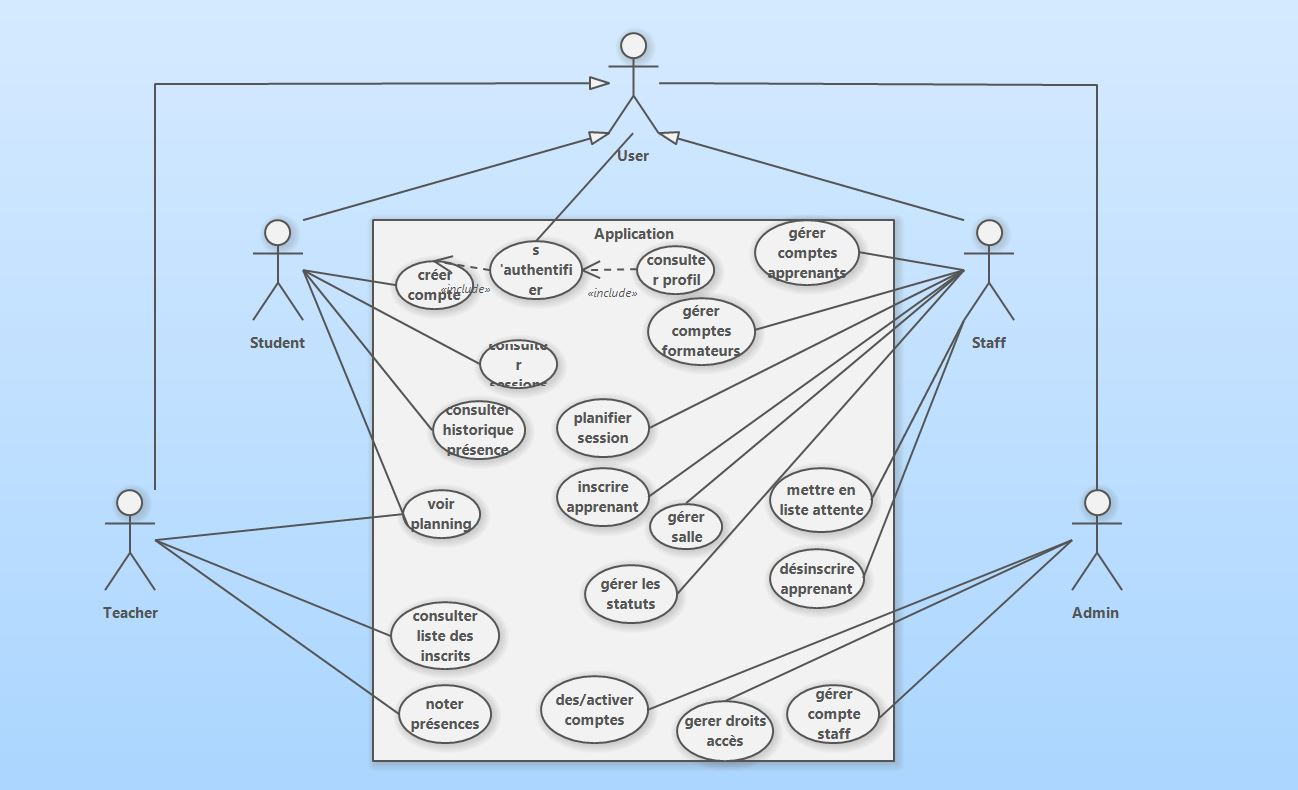
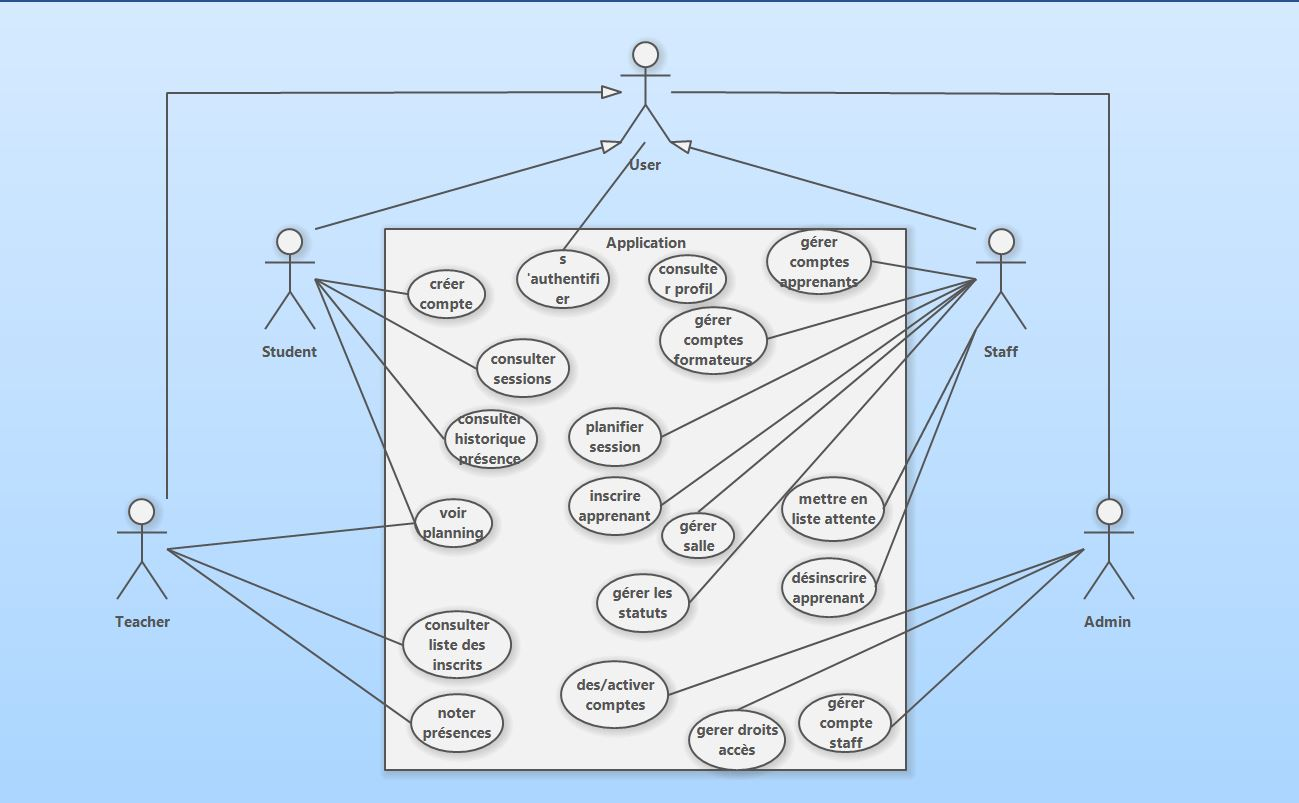
modification migrations pour le changement de str en json et mise à jour du README

Changed region(s): [[0.1233, 0.0304, 0.8937, 0.9722], [0.0616, 0.6076, 0.2465, 0.7899], [0.2157, 0.7899, 0.2465, 0.8203]]

diff --git a/migrations/versions/0002_modification_champ_classroom_equipment_.py b/migrations/versions/0002_modification_champ_classroom_equipment_.py
@@ -33,6 +33,7 @@ def downgrade() -> None:
     # ### commands auto generated by Alembic - please adjust! ###
     op.alter_column('classroom', 'equipments',
                existing_type=postgresql.JSONB(astext_type=sa.Text()),
+               postgresql_using='equipments::jsonb',
                type_=sa.TEXT(),
                existing_nullable=False)
     # ### end Alembic commands ###

diff --git a/README.md b/README.md
@@ -77,17 +77,27 @@ brief_SQL/
 
 #### Diagrame des cas d'utilisations
 
+![MCD](./MCD/DCU.JPG)
 
 ## Choix techniques
 
 #### SQLAlchemy 
-Nous avons decider de partir sur SQLAlchemy car celui-ci reste un standard et est trés bien documenté.
-De plus cela nous à parut plus simple pou séparer les modèles et les schémas de Pydantic.
-Dans les différentes documentatins que nous aons pu lire il se trouve également qu'il y a moins de bug que sur SQLModel.
+Nous avons decider de partir sur SQLAlchemy car celui-ci reste un standard et est très bien documenté.
+De plus cela nous à paru plus simple pour séparer les modèles et les schémas de Pydantic.
+Dans les différentes documentations que nous avons pu lire il se trouve également qu'il y a moins de bug que sur SQLModel.
 
 #### Postgres
 Nous sommes parti sur Postgres car nous voulions implémenter un vrai SGBD et le manipuler, puisque nous avons déjà vu SQLite pour Python auparavant.  
-Postgres c'est imposer face à MariaDb puisque pour certains nous avons renconter des soucis d'installation avec Mariadb, ou ensuite une difficulté à implenter les connections en Python malgrès le cours sur le sujet.
+Postgres s'est imposé face à MariaDb puisque pour certains nous avons rencontré des soucis d'installation avec Mariadb, ou ensuite une difficulté à implémenter les connections en Python malgrès le cours sur le sujet.
+
+#### Alembic
+Alembic est l'outil de migration associé à SQLAlchemy. Il versionne le schéma de la base : chaque évolution est décrite dans un fichier de migration, appliquée dans l'ordre, et peut être annulée. Cela permet de faire évoluer la base sans la recréer et sans perdre les données existantes.
+
+##### Migrations du projet
+001: Création des tables
+002: Modification du champs `equipments`de la table `Classroom` de str à json.
+
+La table Session contient déjà un champs `statut` et le role `SUPERADMIN` est une valeur entrée dans la table `access_level`.
 
 #### Looping
 Mauro ayant de l'experience avec ce logiciel, c'est tout naturellement que nous l'avons utiliser pour réaliser le MCD
